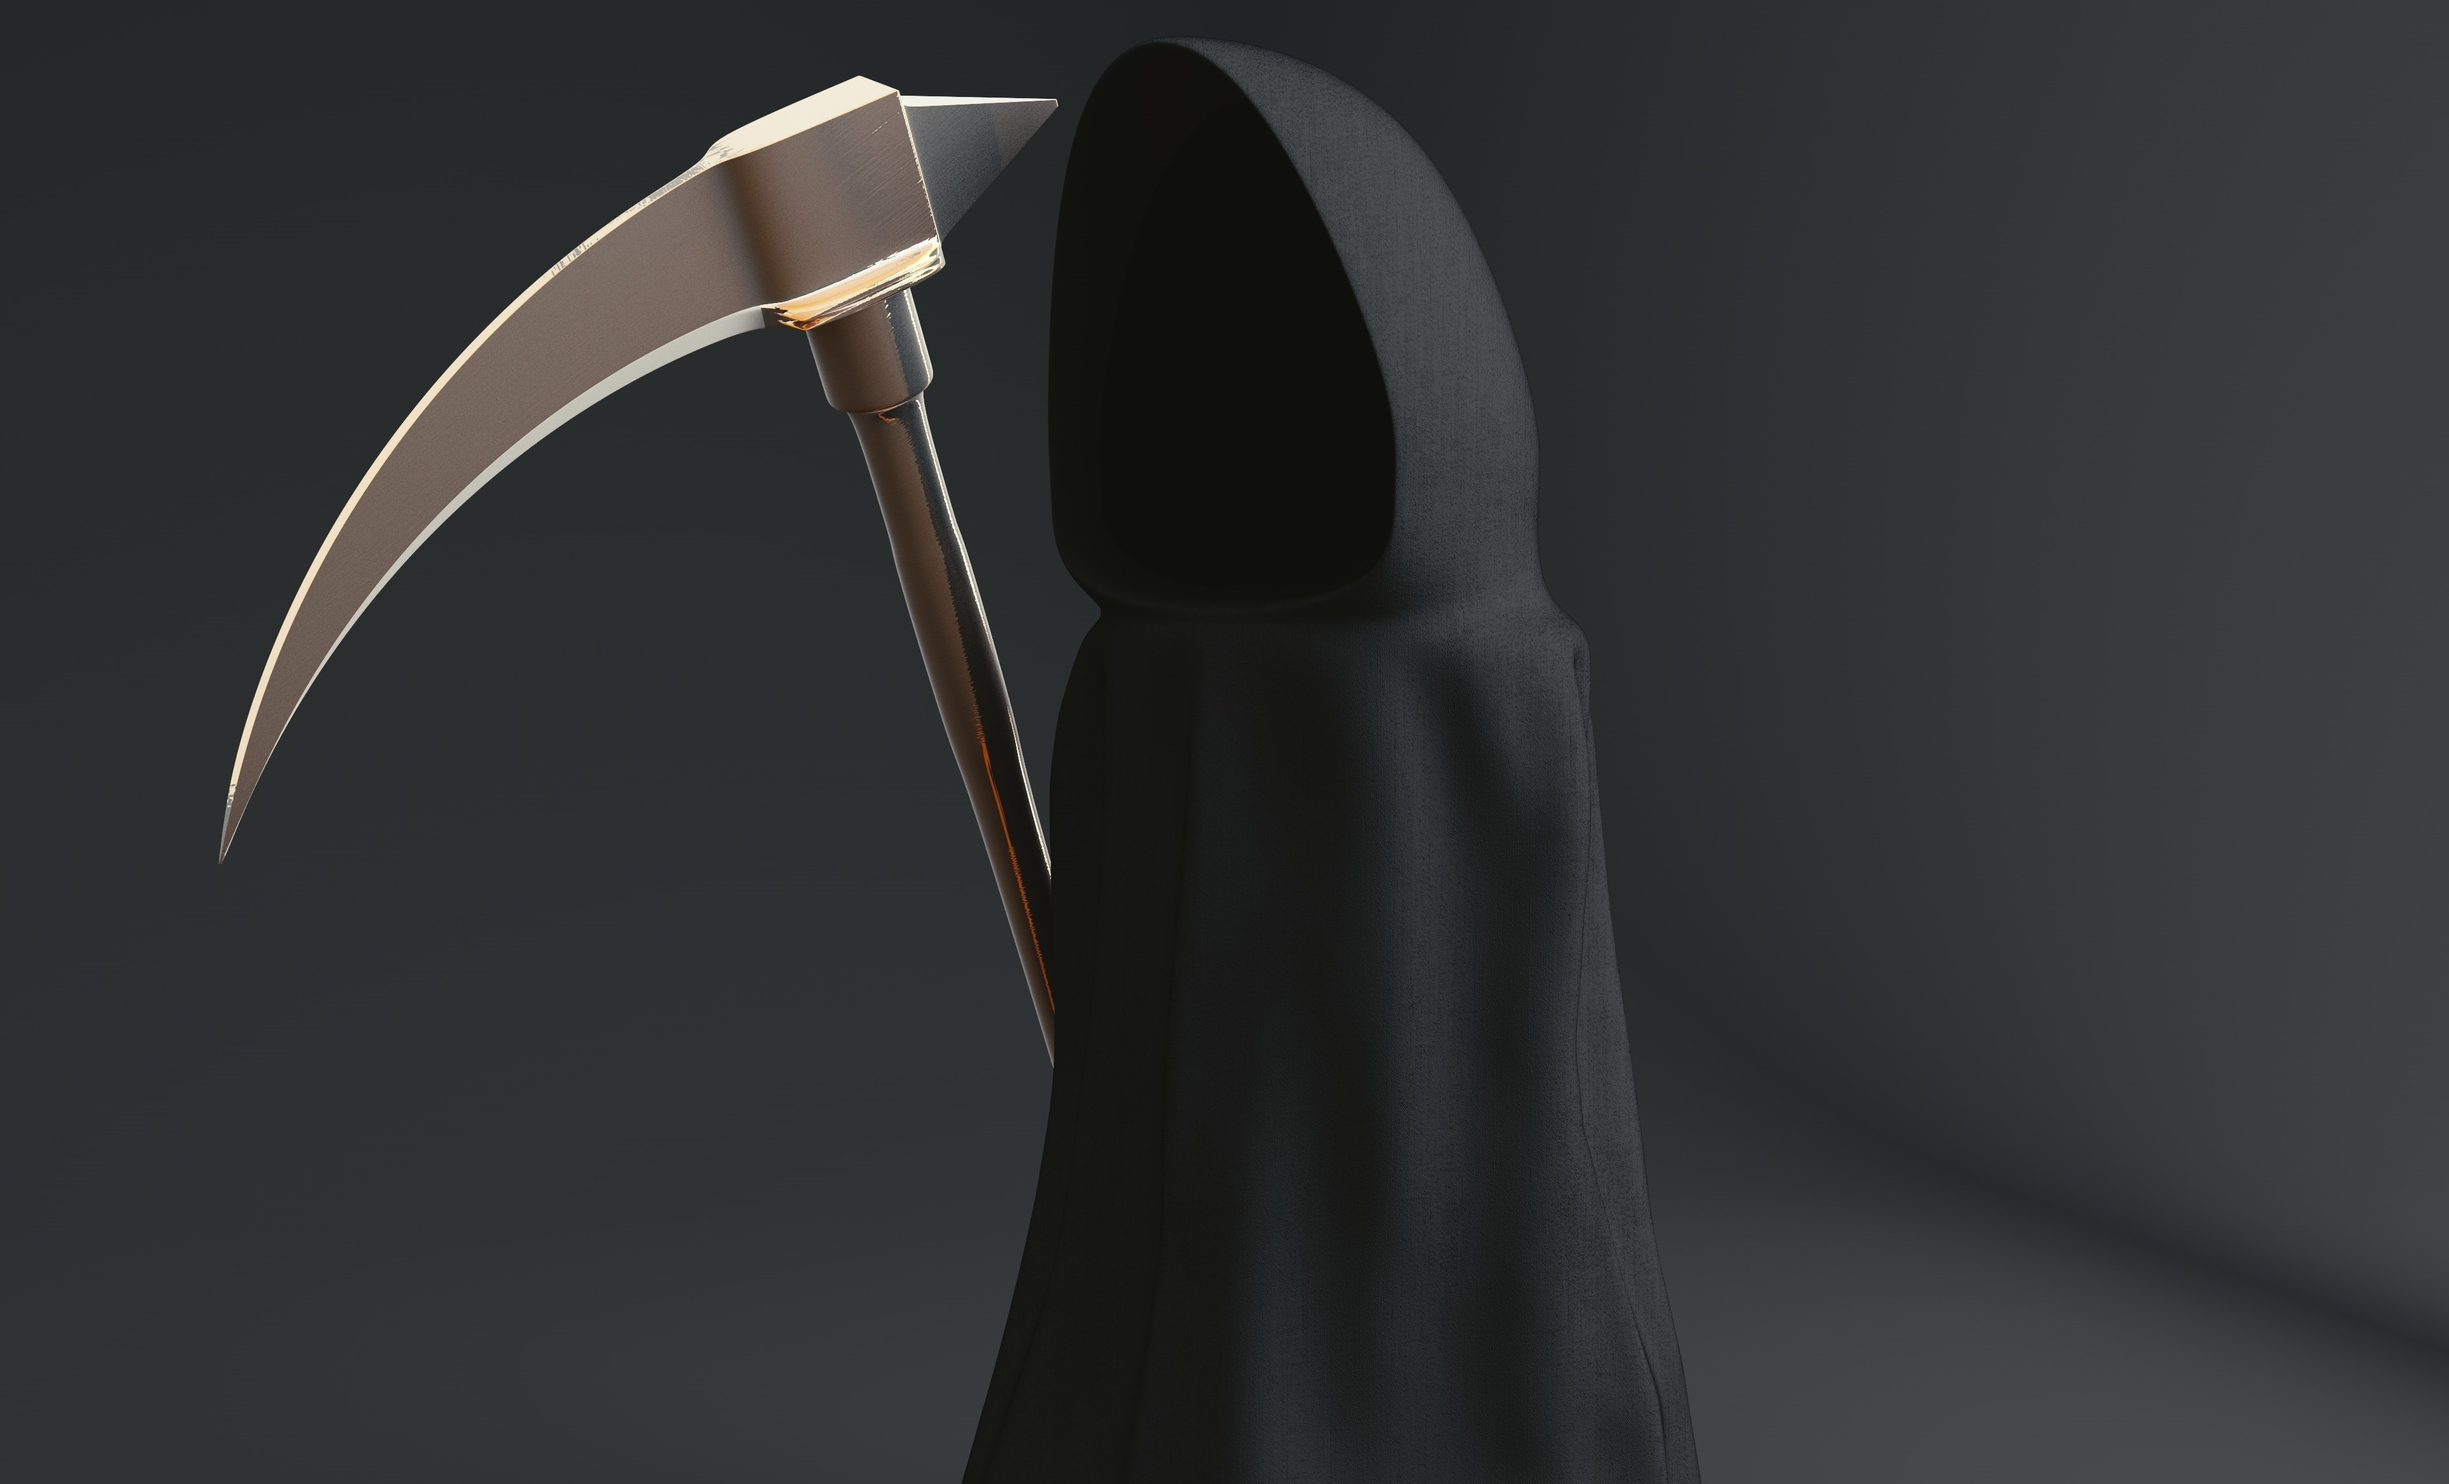
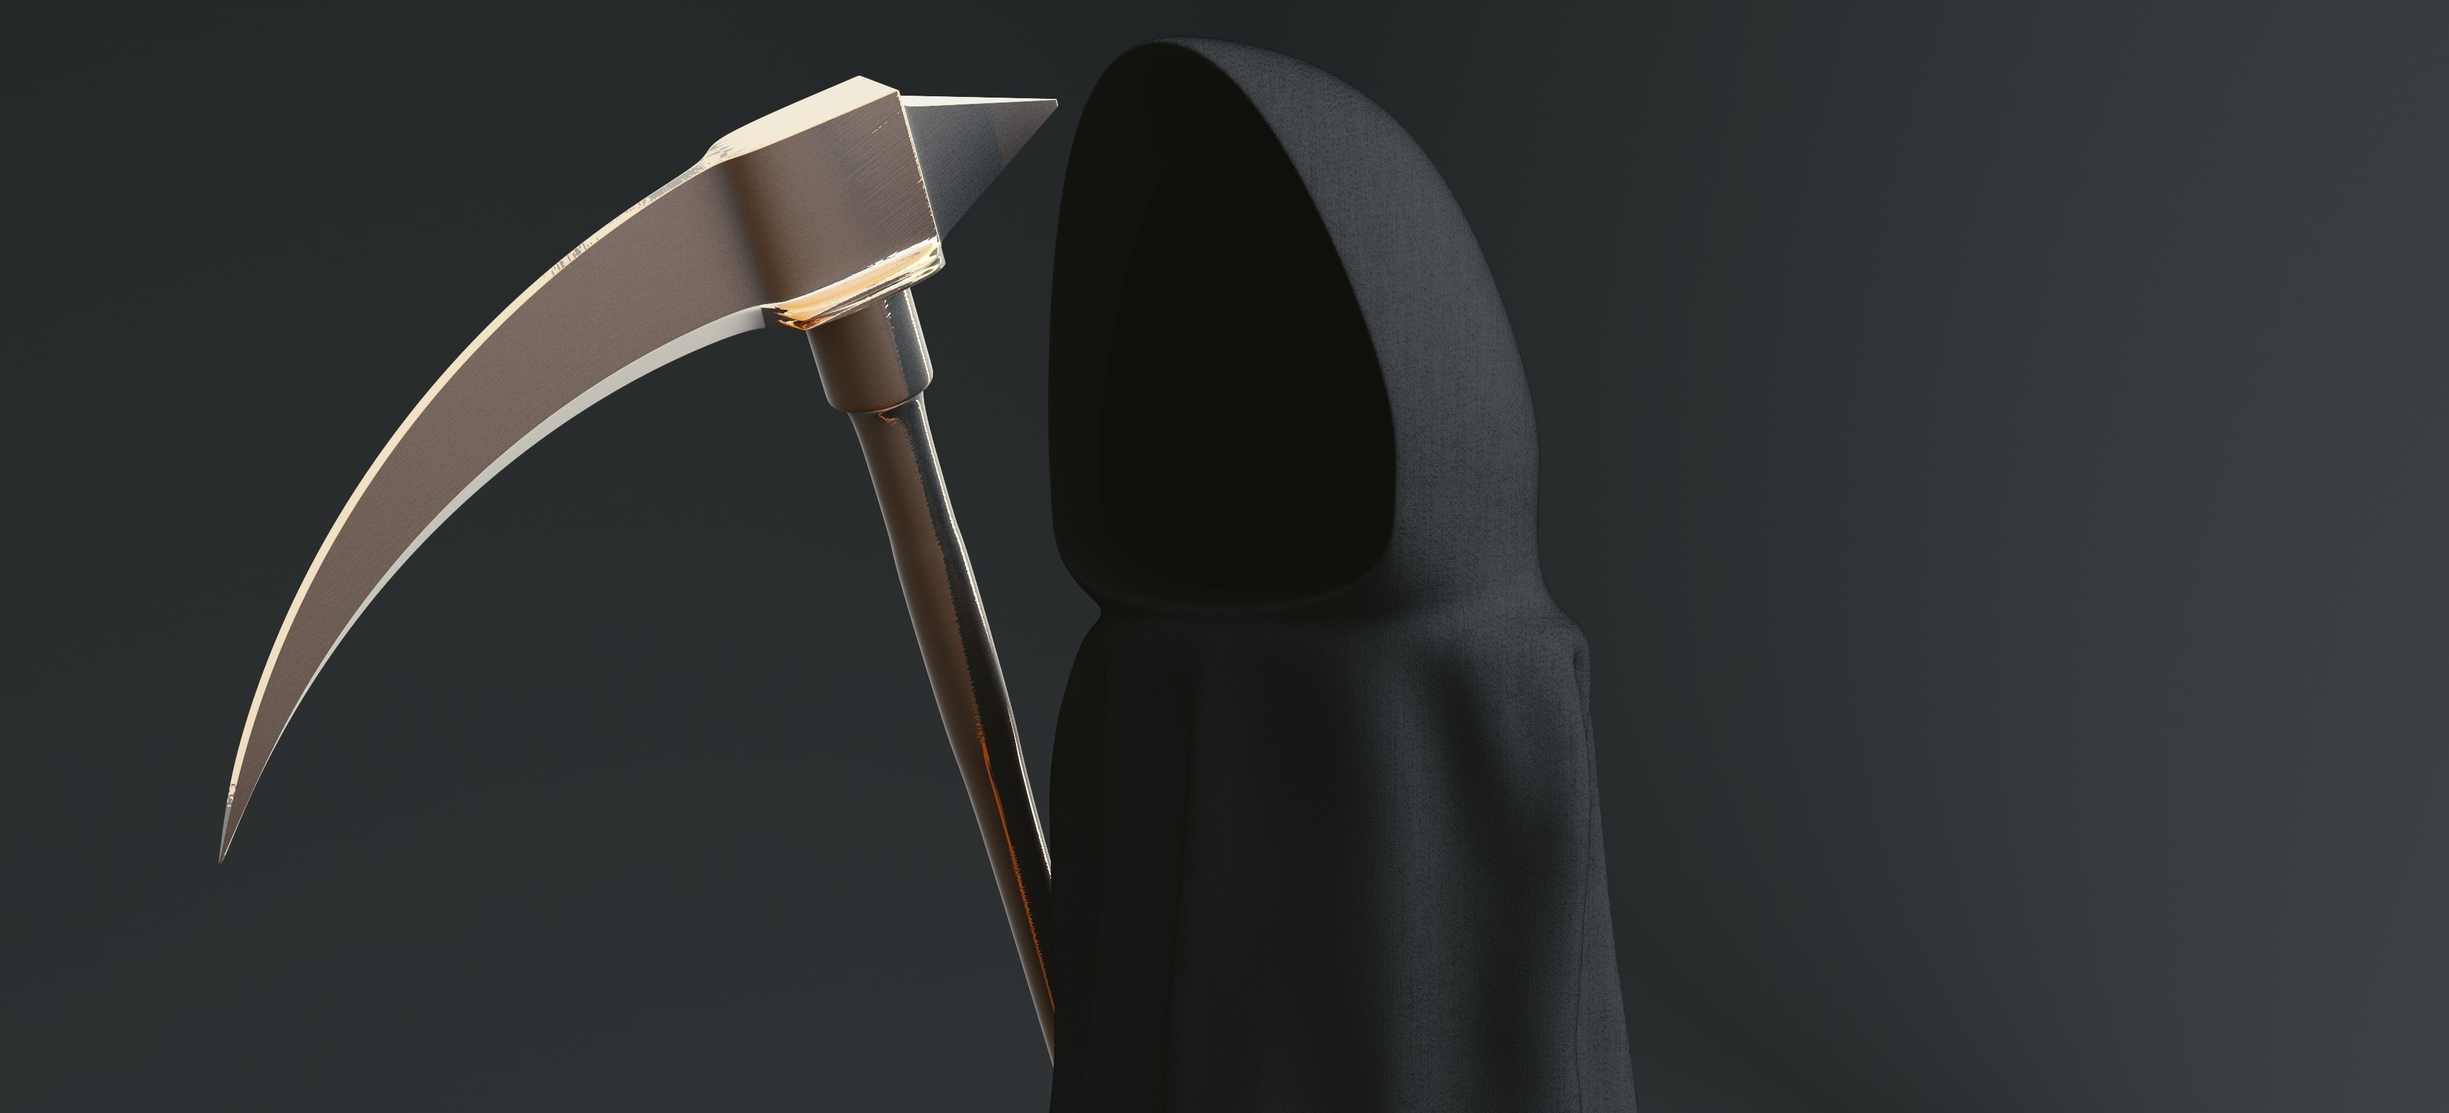
amended idiom

diff --git a/index.html b/index.html
@@ -40,7 +40,7 @@
     <!-- Main Cover -->
     <div class="cover" id="home">
       <div class="image-container" style="margin-bottom: 0;">
-        <img src="components/cover_wide_1.jpg" style="width:100%; height: 650px" alt="WORLD DEATH RATE IN 2019">
+        <img src="components/cover_wide_1.jpg" style="width:100%; height: 450px" alt="WORLD DEATH RATE IN 2019">
       </div>
       <div class="overlay-text">
         <h1 class="main-title">GLOBAL DEATH RATE IN 2019</h1>
@@ -55,7 +55,7 @@
         <h2 class="title">INTRODUCTION</h2>
       </div>
       <div>
-        <p class="para-1">The question of what causes people to lose their lives is of paramount importance, guiding critical decisions in public health and ultimately saving lives. Sadly, many of the leading causes of death often remain in the shadows, receiving insufficient public attention. Over time, the death rates stemming from these causes have witnessed significant incline on a global scale. Hence, it is crucial to take into a deeper understanding of the root casues of mortality that fall across the age group.
+        <p class="para-1">The question of what causes people to lose their lives is of paramount importance, guiding critical decisions in public health and ultimately saving lives. Sadly, many of the leading causes of death often remain in the shadows, receiving insufficient public attention. Over time, the death rates stemming from these causes have witnessed significant incline on a global scale. Hence, it is crucial to take into a deeper understanding of the root casues of mortality that fall across the population. This exploration aims to shed light on the leading causes of death in 2019, with a specific focus on environmental, nutritional, and lifestyle factors.
         </p>
       </div>
     </div>
@@ -123,7 +123,7 @@
           </p>
           <br> 
           <p style="text-indent: 25px;">
-            Zooming in on specific countries, such as <em_purple_xl>Malaysia</em_purple_xl> and <em_brown_xl>Australia</em_brown_xl>, further illuminates the disparities. Malaysia exhibits a <em_purple_i>higher death rate</em_purple_i> attributed to both high systolic blood pressure and high sodium diets compared to Australia. Additionally, Malaysia reports a slightly higher death rate due to high fasting plasma glucose levels than Australia.
+            Zooming in on specific countries, such as <em_high_l>Malaysia</em_high_l> and <em_high_l>Australia</em_high_l>, further illuminates the disparities. Malaysia exhibits a <bi_l>higher death rate</bi_l> attributed to both high systolic blood pressure and high sodium diets compared to Australia. Additionally, Malaysia reports a slightly higher death rate due to high fasting plasma glucose levels than Australia.
           </p>
           <br>
           <p style="font-style:italic;">NOTE: Zoom in the plot and move the plot around to see the data points more clearly!</p>
@@ -151,7 +151,7 @@
         </p>
         <br>
         <p style="text-indent: 25px;">
-          Surprisingly, more than half of the countries on this list are located in <em_blue_l>Europe</em_blue_l>, with <em_blue_xl>Ukraine</em_blue_xl> claiming the top spot with a notably high average death rate of 288.65 per 100,000 people. It is worth noting that the <em>global average death rate</em> in this context stands at <em>57.37</em> per 100,000 people, putting these figures into perspective and highlighting the significance of dietary choices in influencing health outcomes worldwide.
+          Surprisingly, more than half of the countries on this list are located in <em_high_l>Europe</em_high_l>, with <em_high_l>Ukraine</em_high_l> claiming the top spot with a notably high average death rate of 288.65 per 100,000 people. It is worth noting that the <bi>global average death rate</bi> in this context stands at <bi>57.37</bi> per 100,000 people, putting these figures into perspective and highlighting the significance of dietary choices in influencing health outcomes worldwide.
         </p>
         <br>
         <p style="font-style:italic;">NOTE: View the top 10 countries with the highest death rate by dragging the slider!</p>
@@ -168,19 +168,13 @@
       <div class="pure-u-2-5">
         <br>
         <p style="text-indent: 25px">
-          When examining diet practices on a global scale, it becomes evident that <em_high_l>diets low in vegetables</em_high_l> tend to be associated with <em_high>higher</em_high> death rates compared to other dietary habits. In contrast, <em_low_l>diets low in nuts and seeds</em_low_l> appear to have <em_low>lower</em_low> death rates.
+          Across regions, diet-related death rates vary notably. <em_high_l>North America</em_high_l> stands out with <bi>higher</bi> death rates due to <bi>low whole grain consumption</bi>. In contrast, <em_high>Oceania</em_high> has the lowest death rates linked to all plant-based diet factors, suggesting a healthier eating pattern. Meanwhile, <em_high>Asia</em_high> records <bi>higher</bi> death rates from <bi>low fruit intake</bi>, which suggests that individuals in the region should consume more fruits to improve their health outcomes. 
         </p>
-        <br>
-        <p style="text-indent: 25px">
-          Now, let's narrow our focus to the <em_purple_xl>Asia</em_purple_xl> and <em_brown_xl>Oceania</em_brown_xl> continents. Here, we observe a consistent pattern: low vegetable consumption is consistently linked to higher death rates, while diets low in nuts and seeds are associated with the lowest death rates. Interestingly, low diet in fruit and low diet in whole grain show similar effects on death rates in both of these continents.
-        </p>
-        <br>
-        <p style="font-style:italic;">NOTE: Select a continent to visualise each continent better!</p>
 
       </div>
 
       <div class="pure-u-1-2 container">
-        <div id="parallel_coor"></div>
+        <div id="heat_map"></div>
       </div>
 
     </div>   
@@ -200,15 +194,15 @@
         <div class="pure-u-2-5">
           <br>
           <p style="text-indent: 25px">
-              The chart provides a visual representation of how different lifestyle behaviors influenced death rates across continents in 2019. Notably, <em_blue_xl>Europe</em_blue_xl> has the <em_blue_l>highest</em_blue_l> contribution to the total death rate at <em_blue_l>46%</em_blue_l>, primarily due to smoking. This underscores the significant health impact of smoking in the region. In contrast, <em_rb_xl>South America</em_rb_xl> accounts for only <em_rb_l>4%</em_rb_l> of the total death rate, the <em_rb_l>lowest</em_rb_l> among all continents.
+              Notably, <em_high_l>Europe</em_high_l> has the <bi_l>highest</bi_l> contribution to the total death rate at <bi>46%</bi>, primarily due to smoking. This underscores the significant health impact of smoking in the region. In contrast, <em_high_l>South America</em_high_l> accounts for only <bi>4%</bi> of the total death rate, the <bi_l>lowest</bi_l> among all continents.
           </p>
           <br>
           <p style="text-indent: 25px">
-            Digging deeper, <em_blue_xl>Europe</em_blue_xl> also leads in death rates related to drug and alcohol use. Surprisingly, <em_brown_xl>Oceania</em_brown_xl> stands apart with the lowest death rate due to alcohol use, at just 4%.
+            Digging deeper, <em_high_l>Europe</em_high_l> also has the <bi_l>highest</bi_l> death rates related to drug and alcohol use. Surprisingly, <em_high_l>Oceania</em_high_l> stands apart with the <bi_l>lowest</bi_l> death rate due to alcohol use, at just <bi>4%</bi>.
           </p>
           <br>
           <p style="text-indent: 25px">
-            Taking a closer look at <em_purple_xl>Asia</em_purple_xl>, we find a variety of health challenges. Smoking contributes to 19% of deaths, drug use to 21%, and alcohol use to 15%. This highlights the diverse health issues within the continent.
+            Taking a closer look at <em_high_l>Asia</em_high_l>, we find a variety of health challenges. Smoking contributes to <bi>19%</bi> of deaths, drug use to <bi>21%</bi>, and alcohol use to <bi>15%</bi>. This highlights the diverse health issues within the continent.
           </p>
           <br>
           <p style="font-style:italic;">NOTE: Select a different behaviour to visualise their proportion!</p>
@@ -258,7 +252,7 @@
     var specVis2 = "js/environmental.vg.json";
     var specVis3 = "js/nutritional_health.vg.json"
     var specVis4 = "js/lowDiet_in_PlantBasedSource.vg.json"
-    var spevVis5 = "js/dietPractices.vg.json"
+    var spevVis5 = "js/dietPractices2.vg.json"
     var spevVis6 = "js/lifestyle.vg.json"
 
     vegaEmbed('#choropleth_map', specVis1, { "actions": false }).then(function (result) {
@@ -277,7 +271,7 @@
       // Access the Vega view instance (https://vega.github.io/vega/docs/api/view/) as result.view
     }).catch(console.error);
 
-    vegaEmbed('#parallel_coor', spevVis5, { "actions": false }).then(function (result) {
+    vegaEmbed('#heat_map', spevVis5, { "actions": false }).then(function (result) {
       // Access the Vega view instance (https://vega.github.io/vega/docs/api/view/) as result.view
     }).catch(console.error);
 

diff --git a/css/styles.css b/css/styles.css
@@ -28,24 +28,27 @@
     width: 40vw;
 }
 
-#parallel_coor {
+#heat_map {
     color:#fff!important;
     background-color:#000!important;
     width: 40vw;
 }
 
-/* #choropleth_map ::after, #choropleth_map ::before, #stacked_bar_chart ::after, #stacked_bar_chart ::before,
-#bubble_plot ::after, #bubble_plot ::before,
-#bar_chart ::after, #bar_chart ::before,
-#waffle_chart ::after, #waffle_chart ::before
-{
-    content:"";
-    display:table;
-    clear:both
-} */
-
 body {
     background-color: black;
+}
+
+bi {
+    font-weight: bold;
+    font-style:italic;
+    color: white;
+}
+
+bi_l {
+    font-size: 18px;
+    font-weight: bold;
+    font-style:italic;
+    color: white;
 }
 
 em {
@@ -81,27 +84,27 @@ em_i {
 em_high {
     font-weight: bold;
     font-style:normal;
-    color: #e6550d;
+    color: red;
 }
 
 em_high_l {
-    font-size: 16px;
+    font-size: 20px;
     font-weight: bold;
     font-style:normal;
-    color: #e6550d;
+    color: red;
 }
 
 em_low {
     font-weight: bold;
     font-style:normal;
-    color: #fdbe85;
+    color: orange;
 }
 
 em_low_l {
-    font-size: 16px;
+    font-size: 20px;
     font-weight: bold;
     font-style:normal;
-    color:#fdbe85;
+    color: orange;
 }
 
 em_blue {
@@ -276,6 +279,7 @@ p_i {
 
 .title {
     font-size: 30px;
+    width:"window.innerWidth";
     color: black;
     text-align: center;
     padding: 1em 0;
